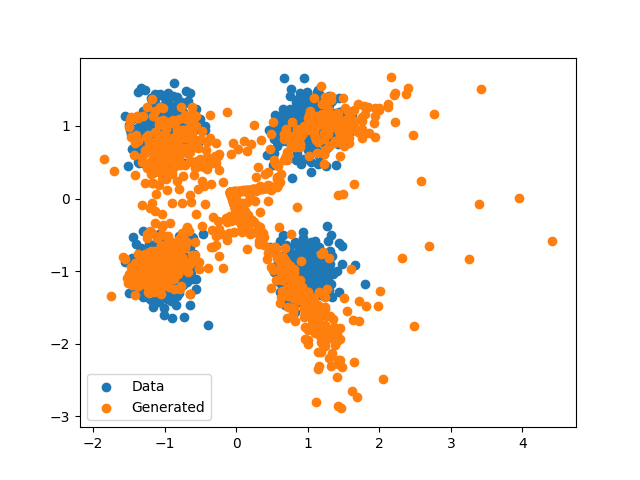
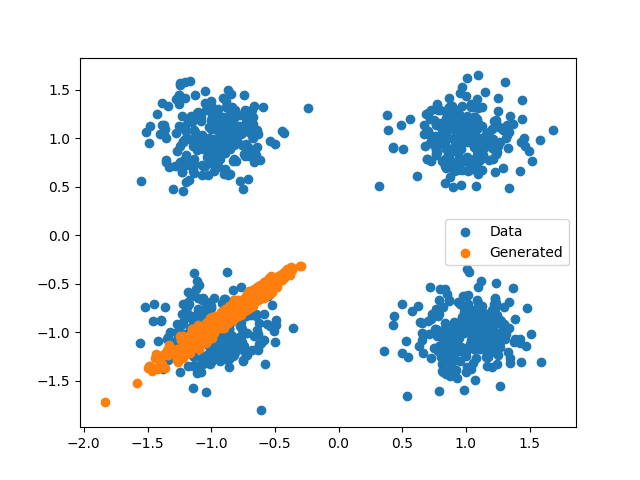
finished multi-training for gan

diff --git a/2d_multi_mode/gan-script-2d-gaussians_backup.py b/2d_multi_mode/gan-script-2d-gaussians_backup.py
@@ -119,13 +119,8 @@ for i in range(pre_train_iterations):
     _, __, dLossReal, dLossFake = sess.run([d_trainer_real, d_trainer_fake, d_loss_real, d_loss_fake], {x_placeholder: real_batch, z_placeholder: z_batch})
 
 
-iterations = 5
-d_loss_fake = []
-d_loss_real = []
-g_losses = []
+iterations = 5000
 for i in range(iterations):
-    print('iteration ' + str(i))
-    print('training discriminator')
     z_batch = np.random.normal(0, 1, size=[batch_size, z_dimensions])
     np.random.shuffle(realData)
     real_batch = realData[0:batch_size, :]
@@ -139,12 +134,9 @@ for i in range(iterations):
 
     # Train discriminator
     _, __, dLossReal, dLossFake = sess.run([d_trainer_real, d_trainer_fake, d_loss_real, d_loss_fake], {x_placeholder: real_batch, z_placeholder: z_batch})
-    print('Loss')
-    # Train generator 10 times against discriminator
-    for i in range(5):
-        print('training generator')
-        z_batch = np.random.normal(0, 1, size=[batch_size, z_dimensions])
-        _ = sess.run(g_trainer, feed_dict={z_placeholder: z_batch})
+
+    z_batch = np.random.normal(0, 1, size=[batch_size, z_dimensions])
+    _ = sess.run(g_trainer, feed_dict={z_placeholder: z_batch})
 
 
 model_name = 'modelGaussians2D'
@@ -161,19 +153,12 @@ with tf.Session() as sess:
 
     gen = generator(z_placeholder, batch_size, z_dimensions)
     z_batch = np.random.normal(0, 1, [batch_size, z_dimensions])
+
     genOutput = sess.run(gen, feed_dict={z_placeholder: z_batch})
     genOutput = genOutput.reshape([batch_size, 2])
     print(genOutput.mean())
     np.save('gen2D.npy', genOutput)
 
-# def plotLosses(fake_loss,real_loss, fname):
-#     plt.clf()
-#     print(fake_loss)
-#     plt.plot(fake_loss,label='d_loss_fake')
-#     plt.plot(real_loss,label='d_loss_real')
-#     #plt.plot(g_losses,label='g_loss')
-#     plt.legend()
-#     plt.savefig(fname)
 
 
 def plot2D(realPoints, fakePoints, fname):
@@ -187,4 +172,3 @@ def plot2D(realPoints, fakePoints, fname):
 
 realPoints = realData[0:1000, :]
 plot2D(realPoints, genOutput, 'gen2D.png')
-#plotLosses(d_loss_fake,d_loss_real,'losses.png')
